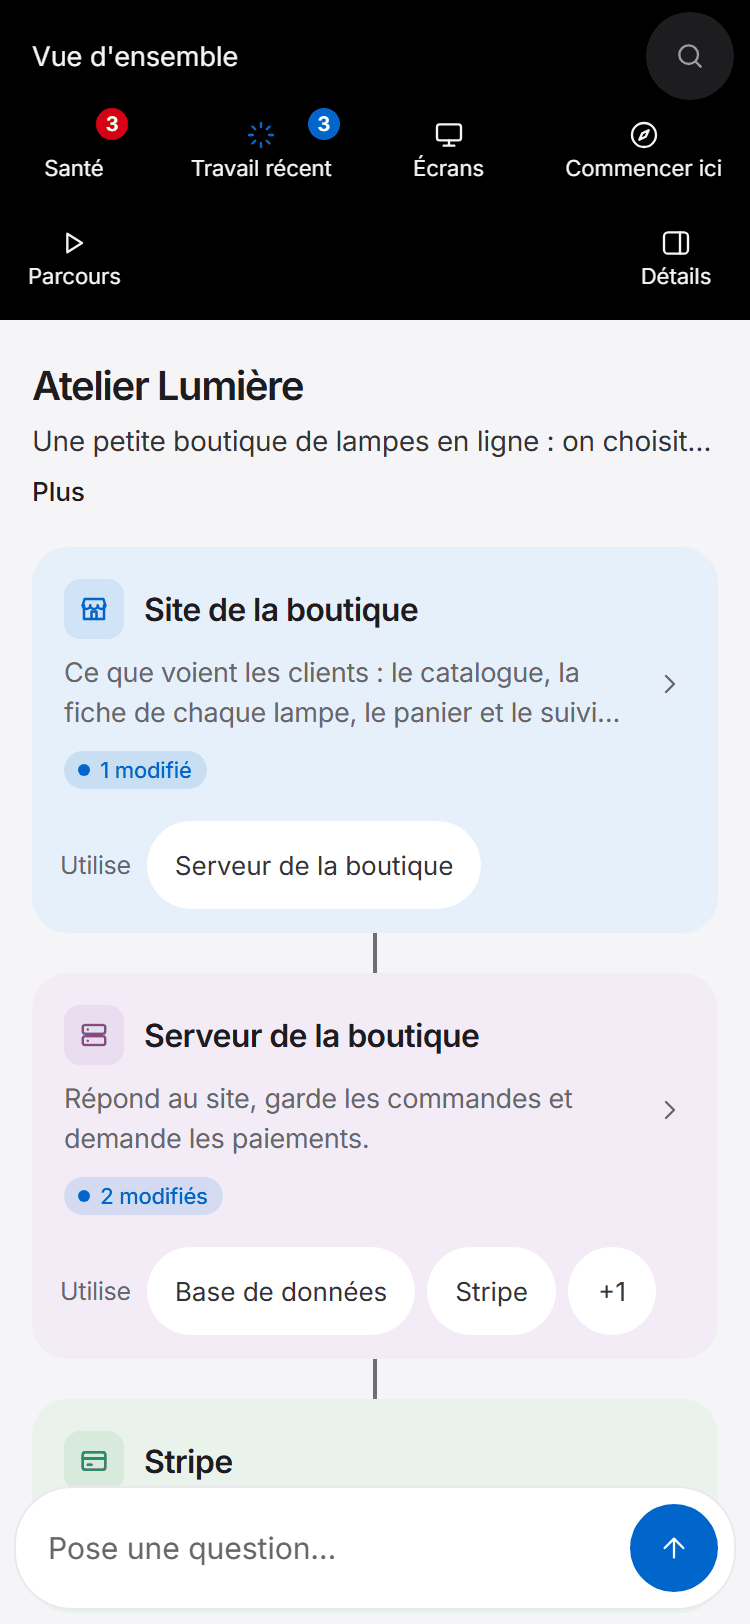
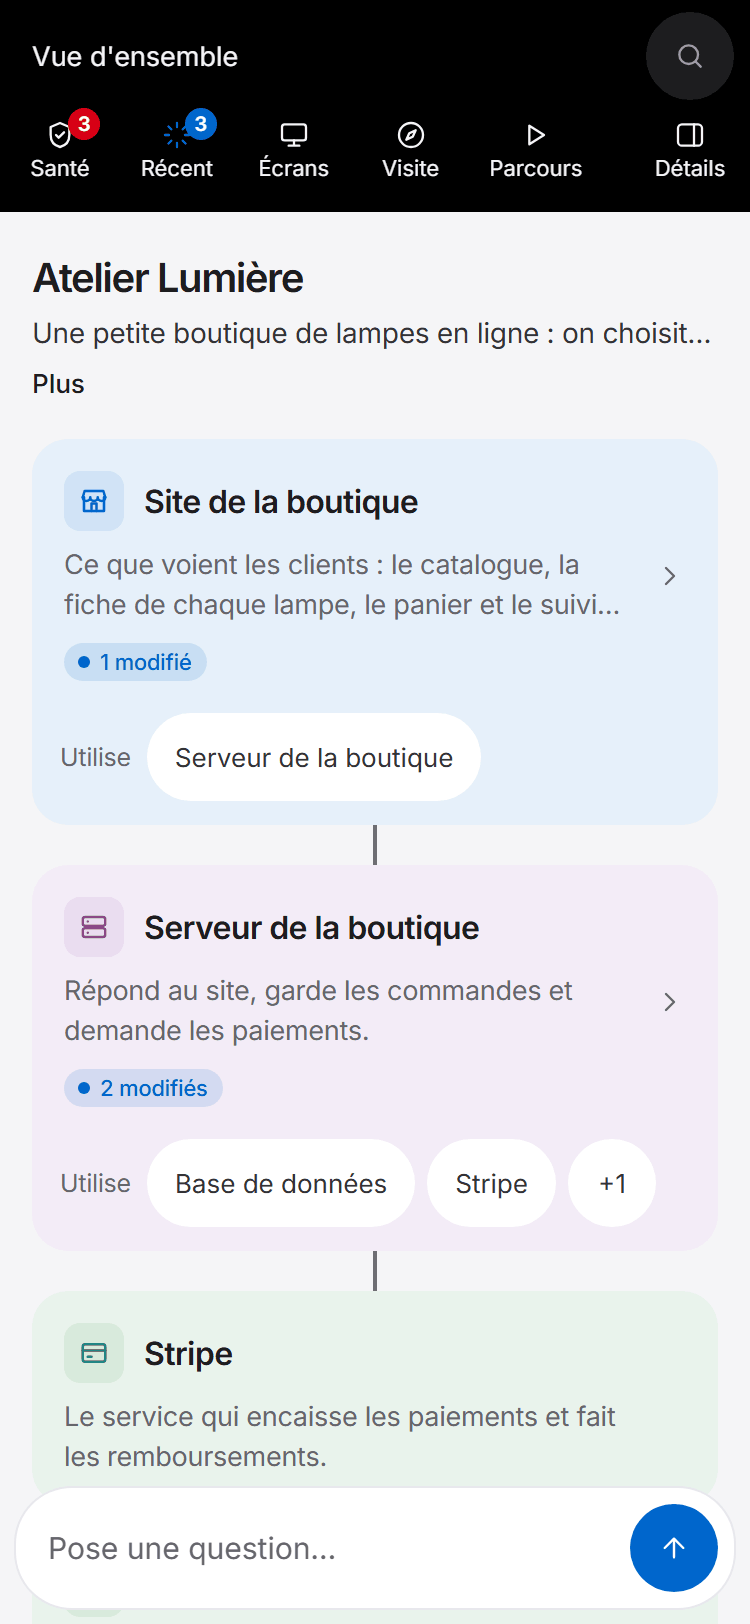
Barre sur une ligne sur téléphone et tablette, icône de Santé, titre d'onglet
- Téléphone et tablette : noms raccourcis, plus de débordement ni de deuxième ligne.
- Le bouton Santé avait perdu son icône dès qu'il y avait un point à voir.
- Onglet : « Atelier Lumière : la carte » au lieu de « Carte de Atelier Lumière ».
- Captures de la doc refaites sur cette version.

diff --git a/skills/la-carte/assets/carte/css/11-petits-ecrans.css b/skills/la-carte/assets/carte/css/11-petits-ecrans.css
@@ -94,8 +94,12 @@
   .col-plus { min-height: 44px; min-width: 44px; padding: 0 12px; border: 0; border-radius: 999px; background: var(--surface); color: var(--text-2); font: inherit; font-size: 13px; cursor: pointer; }
   /* moins de boutons sur un téléphone : l'export et les filtres n'y servent pas, le thème reste celui par défaut */
   #btn-export, #filters-btn, #theme-toggle, #ask-engine { display: none; }
-  header .hr .btn { flex-direction: column; gap: 2px; width: auto; min-width: 58px; height: 50px; padding: 4px 6px; border-radius: 10px; }
+  header .hr .btn { flex-direction: column; gap: 2px; width: auto; min-width: 44px; height: 50px; padding: 4px 3px; border-radius: 10px; }
+  .hr, .hr-ext { flex-wrap: nowrap; }
   .hr .btn .bl { display: block; font-size: 11px; line-height: 1.2; white-space: nowrap; }
+  #btn-recent .bl, #tour-btn .bl { font-size: 0; }
+  #btn-recent .bl::after { content: "Récent"; font-size: 11px; }
+  #tour-btn .bl::after { content: "Visite"; font-size: 11px; }
   #btn-panel::after { content: "Détails"; font-size: 11px; line-height: 1.2; }
   /* les menus s'ouvrent en blocs pleine largeur sous la barre */
   #flowmenu, #legend { position: fixed; top: calc(var(--hh, 56px) + 4px); left: 8px; right: 8px; width: auto; max-height: 60vh; overflow: auto; }
@@ -103,7 +107,11 @@
 }
 @media (min-width: 701px) and (max-width: 999px) {
   .hr .btn .bl { display: inline; }
-  header .hr .btn { width: auto; padding: 0 10px; gap: 6px; }
+  header .hr .btn { width: auto; padding: 0 7px; gap: 5px; }
+  header .hr .btn .badge { position: static; }
+  #btn-recent .bl, #tour-btn .bl { font-size: 0; }
+  #btn-recent .bl::after { content: "Récent"; font-size: 13.5px; }
+  #tour-btn .bl::after { content: "Visite"; font-size: 13.5px; }
   #btn-panel::after { content: "Détails"; }
   body, body.no-panel { --pw: 0px; }
   #panel { top: auto; left: 16px; right: 16px; bottom: 16px; width: auto; height: 44vh; }

diff --git a/skills/la-carte/assets/carte/js/18-demarrage.js b/skills/la-carte/assets/carte/js/18-demarrage.js
@@ -1,6 +1,6 @@
 // ======================= démarrage =======================
 if (COPIE_EXPORTEE) document.body.classList.add('exported');
-document.title = `Carte de ${G.projet.name}`;
+document.title = `${G.projet.name} : la carte`;
 $('#btn-up').onclick = monterNiveau;
 // glisse le bord gauche du panneau pour le redimensionner ; la largeur est conservée d'une visite à l'autre
 const reglerLargeurPanneau = (w) => { document.documentElement.style.setProperty('--panel-w', `${borner(Math.round(w), 300, Math.min(720, innerWidth - 360))}px`); };

diff --git a/skills/la-carte/assets/carte/js/01-base.js b/skills/la-carte/assets/carte/js/01-base.js
@@ -46,6 +46,7 @@ function el(balise, attrs = {}, parent) {
 
 // ---------- pictogrammes ----------
 const P = {
+  health: '<path d="M12 3 5 6v6c0 5 3 8 7 9 4-1 7-4 7-9V6z"/><path d="m9 12 2 2 4-4"/>',
   ui: '<rect x="3" y="4" width="18" height="12" rx="2"/><path d="M8 20h8M12 16v4"/>',
   service: '<rect x="3" y="4" width="18" height="7" rx="2"/><rect x="3" y="13" width="18" height="7" rx="2"/><path d="M7 7.5h.01M7 16.5h.01"/>',
   worker: '<path d="M13 2 4 14h7l-1 8 9-12h-7z"/>',
